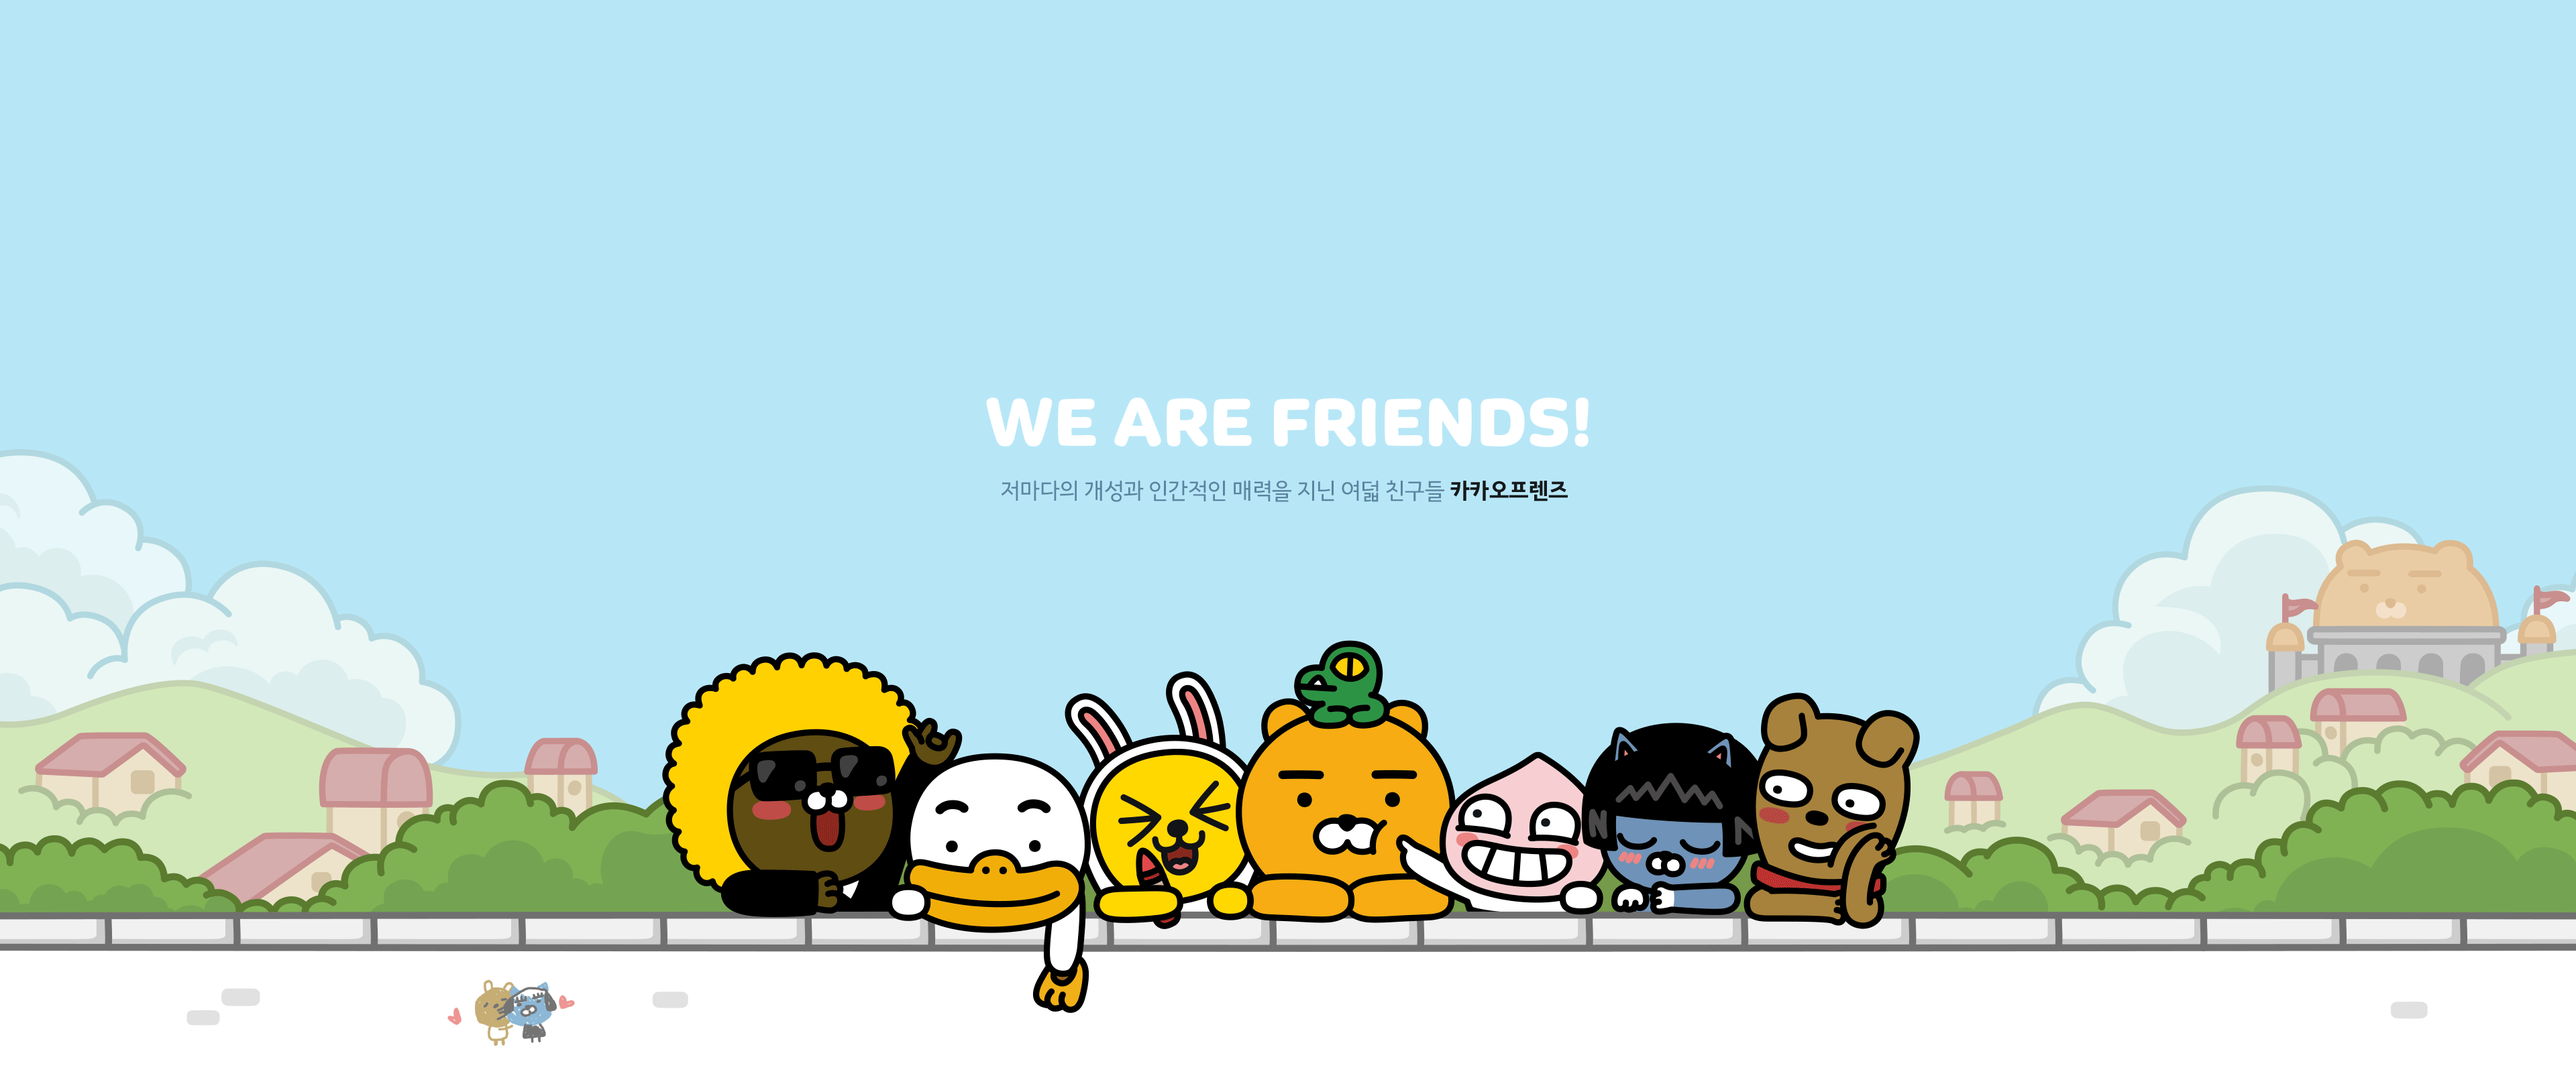
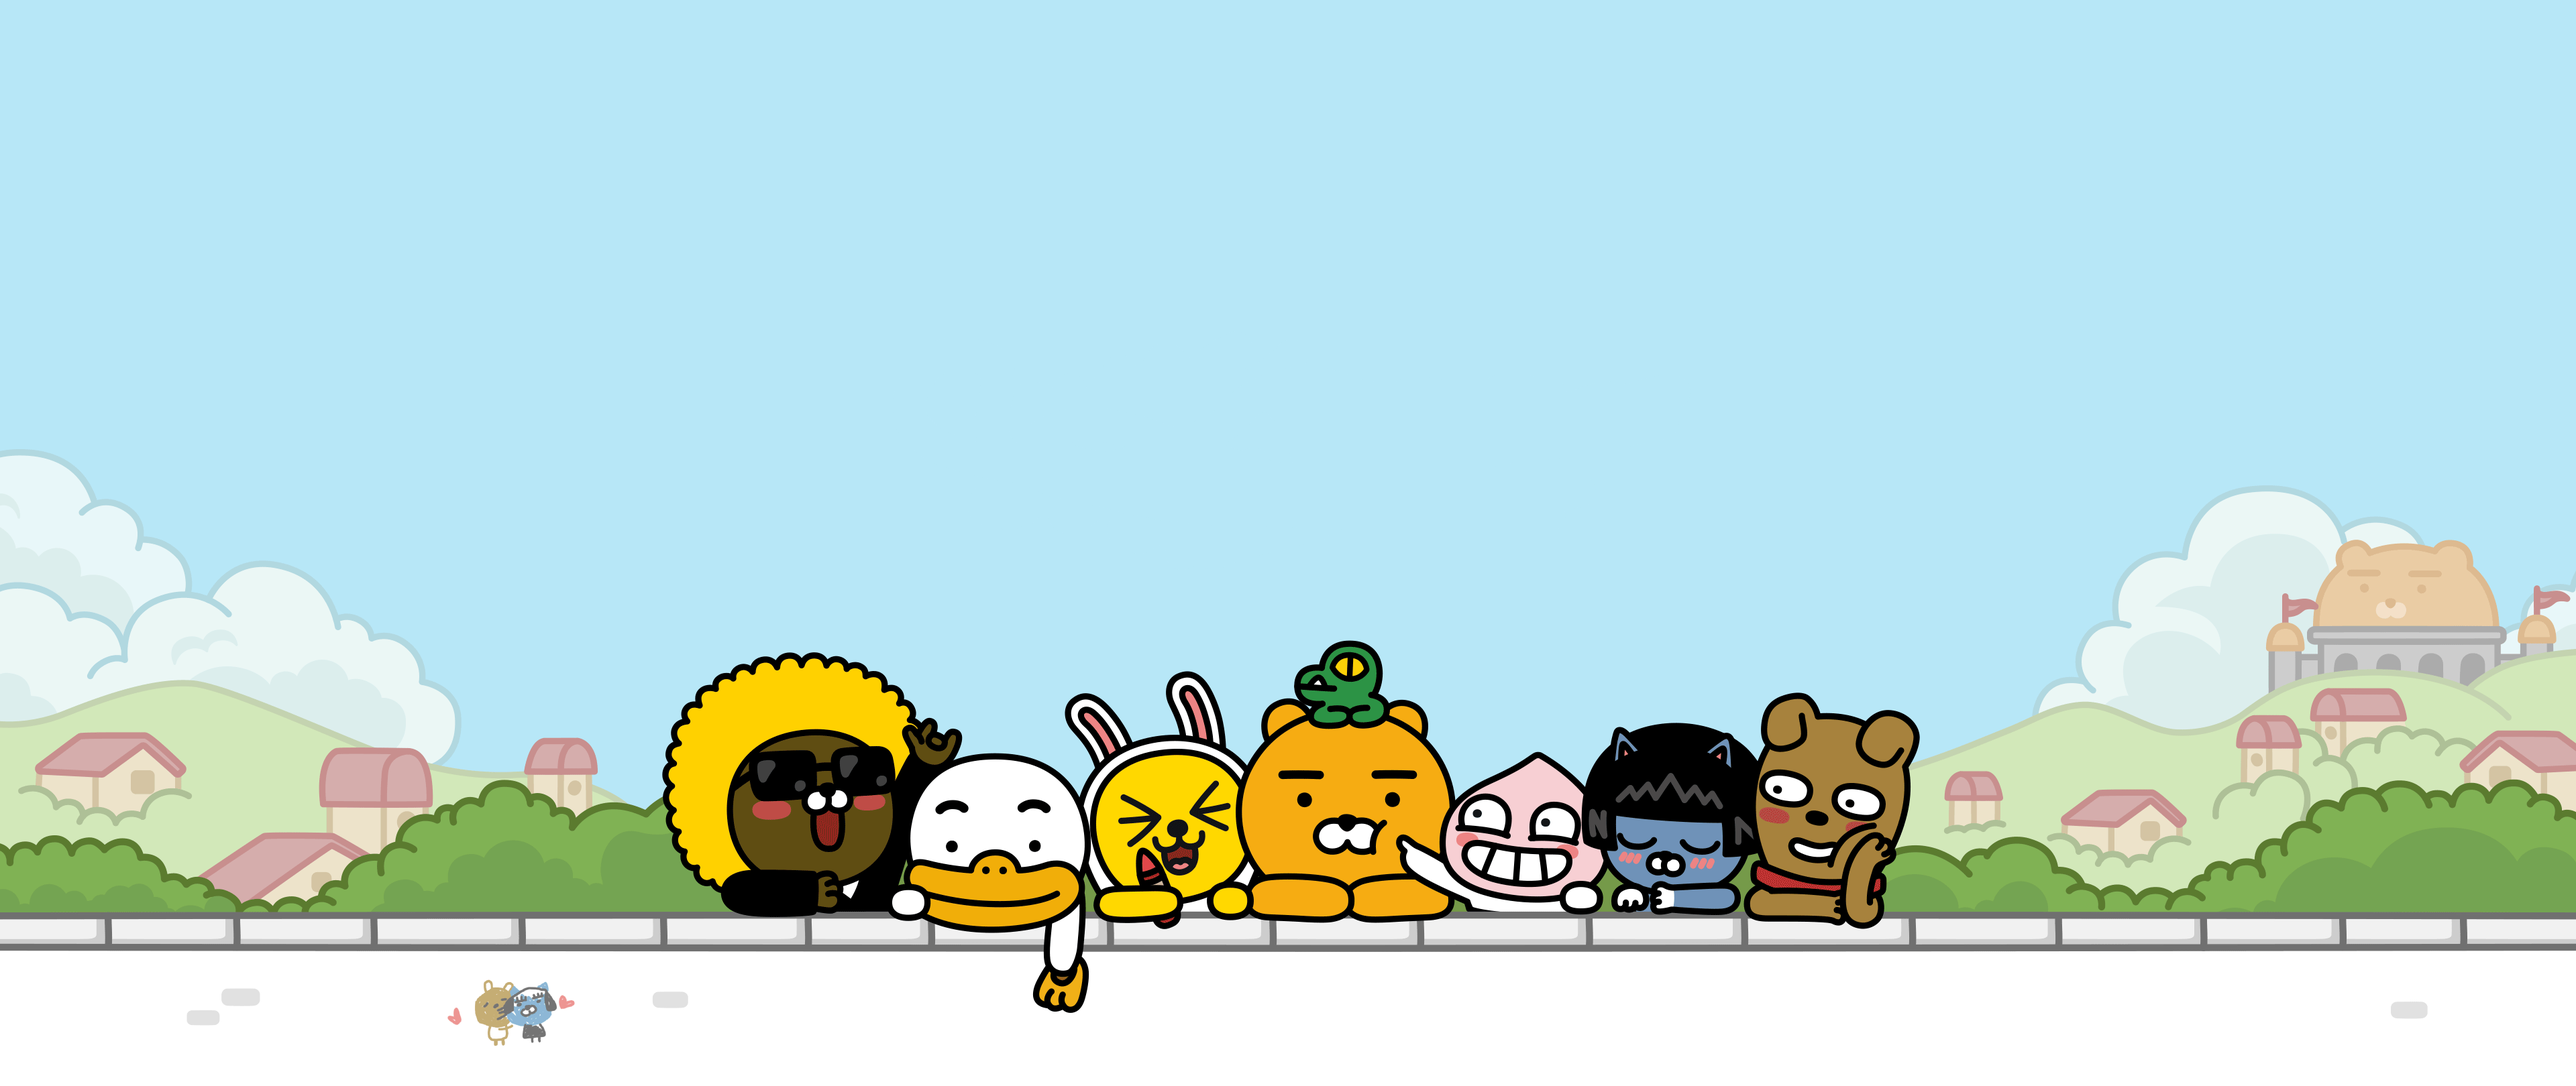
intro 기본 스타일링 완료

Changed region(s): [[0.375, 0.3704, 0.625, 0.463]]

diff --git a/index.html b/index.html
@@ -3,22 +3,29 @@
 <head>
   <meta charset="UTF-8">
   <meta name="viewport" content="width=device-width, initial-scale=1.0">
+  <link rel="preconnect" href="https://fonts.gstatic.com">
+  <!-- Web Font -->
+  <link rel="preconnect" href="https://fonts.gstatic.com">
+  <link href="https://fonts.googleapis.com/css2?family=Fredoka+One&display=swap" rel="stylesheet">
+  <!-- CSS -->
+  <link rel="stylesheet" href="./css/reset.css">
+  <link rel="stylesheet" href="./css/style.css">
   <title>KAKAO FRIENDS</title>
 </head>
 <body>
   <!-- Intro -->
   <div class="intro">
     <div class="intro__bg">
-      <div class="intor__text">
-        <em>WE ARE FRIENDS!</em>
+      <div class="intro__text">
+        <h2>WE ARE FRIENDS!</h2>
         <p>
           저마다의 개성과 인간적인 매력을 지닌 여덟 친구들
-          <strong>카카오 프렌즈</strong>
+          <strong>카카오프렌즈</strong>
         </p>
       </div>
     </div>
   </div>
-  <!-- Character Information -->
+  <!-- Character Info -->
   <div class="character">
     <div class="character__box ryan">
       <div class="character__img"></div>

diff --git a/css/style.css b/css/style.css
@@ -1,0 +1,41 @@
+/* Intro */
+.intro {
+  width: 100%;
+  height: 100vh;
+}
+
+.intro__bg {
+  position: relative;
+  width: 100%;
+  max-width: 1920px;
+  height: 100%;
+  background: url(../assets/bg_charInfo_W.png) no-repeat 50% 0;
+  background-size: 1920px 850px;
+}
+
+.intro__text {
+  position: absolute;
+  top: 30%;
+  left: 50%;
+  text-align: center;
+  transform: translateX(-50%);
+}
+
+.intro__text h2 {
+  font-family: "Fredoka One", cursive;
+  color: #fff;
+  font-size: 50px;
+  font-weight: 400;
+  letter-spacing: 1.5px;
+}
+
+.intro__text p {
+  color: #739db7;
+  font-size: 16px;
+}
+
+.intro__text p strong {
+  color: #2b3639;
+}
+
+/* Character Info */
